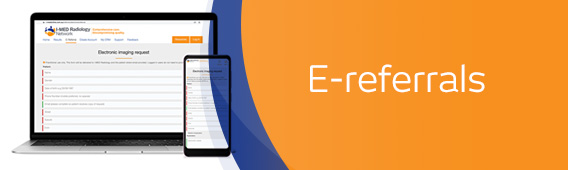
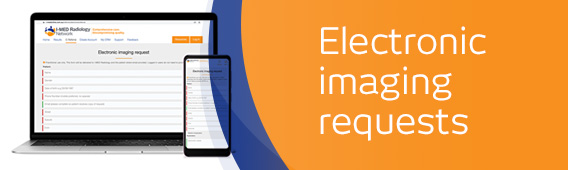
home page image tile updates

diff --git a/referrer-portal/src/main/resources/templates/home.html b/referrer-portal/src/main/resources/templates/home.html
@@ -28,37 +28,38 @@
 					<div class="col-1-2 col-1-2-padding-left w-col w-col-6">
 						<a class="w-inline-block wrapper-card" data-ix="hover-profile"							
 							style="transition: color 0.2s ease 0s, transform 100ms ease 0s; transform: translateX(0px) translateY(0px) translateZ(0px);" th:href="@{/results}">
-							<div class="image-index"></div>
+							<img src="images/public/Image-card-network_new.jpg">
 							<div class="link-index">Results - access patient images and reports</div>
 							<p>I-MED Online 2.0 gives practitioners access to diagnostic images and reports via desktop and mobile. We are progressively rolling out I-MED Online 2.0 across the country.</p>
 						</a>
 					</div>
 					<div class="col-1-2 col-1-2-padding-left w-col w-col-6">
-						<a class="w-inline-block wrapper-card" data-ix="hover-profile"							
-							style="transition: color 0.2s ease 0s, transform 100ms ease 0s; transform: translateX(0px) translateY(0px) translateZ(0px);" th:href="@{/electronicreferral}">
-							<div class="image-index resources"></div>
-							<div class="link-index">E-referrals now available</div>
-							<p>Practitioners can now use our E-referral for imaging requests at I-MED Radiology. It's the best way to ensure your patients get the diagnostic imaging they need.</p>
+						<a class="w-inline-block wrapper-card" data-ix="hover-profile"	
+							onclick="window.open('https://i-med.com.au/doctors/e-referral/image-request');"
+							href="javascript:void(0);"						
+							style="transition: color 0.2s ease 0s, transform 100ms ease 0s; transform: translateX(0px) translateY(0px) translateZ(0px);">
+							<img src="images/public/ereferral.jpg">
+							<div class="link-index">Request imaging via our online e-Referral</div>
+							<p>Our easy-to-use online imaging request is available to our I-MED Online 2.0 users. It is simple to use, compatible with desktop, mobile and tablet.</p>
 						</a>
 					</div>
 				</div>
 				<div class="row w-row">
 					<div class="col-1-2 col-1-2-padding-right w-col w-col-6">
 						<a class="w-inline-block wrapper-card" data-ix="hover-profile"
-							onclick="window.open('https://i-med.com.au/doctors/telehealth');"
+							onclick="window.open('https://i-med.com.au/doctors/e-referral/best-practice');"
 							href="javascript:void(0);"
 							style="transition: color 0.2s ease 0s, transform 100ms ease 0s; transform: translateX(0px) translateY(0px) translateZ(0px);">
-							<div class="image-index referrer"></div>
-							<div class="link-index">Telehealth/PMS referral templates</div>
-							<p>You can download an I-MED referral template into your practice management software (PMS). Please visit our Telehealth page for more information on this.</p>
+							<img src="images/public/telehealth.jpg">
+							<div class="link-index">e-Referrals for better patient outcomes</div>
+							<p>Send us your imaging requests electronically and securely, via HealthLink, from within your Best Practice software. We'll contact your patient to make an appointment.</p>
 						</a>
 					</div>
 					<div class="col-1-2 col-1-2-padding-right w-col w-col-6">
 						<a class="w-inline-block wrapper-card" data-ix="hover-profile"
 							
 							style="transition: color 0.2s ease 0s, transform 100ms ease 0s; transform: translateX(0px) translateY(0px) translateZ(0px);" th:href="@{/support}">
-							<div class="image-index support notice"
-								style="background-size: 568px;"></div>
+							<img src="images/public/serviceman.jpg">
 							<div class="link-index">Support</div>
 							<p>Should you need support with the new E-Referral, with I-MED Online 2.0 or any other issue, help is at hand. Our support team is here to assist by phone, chat or email.</p>
 						</a>
